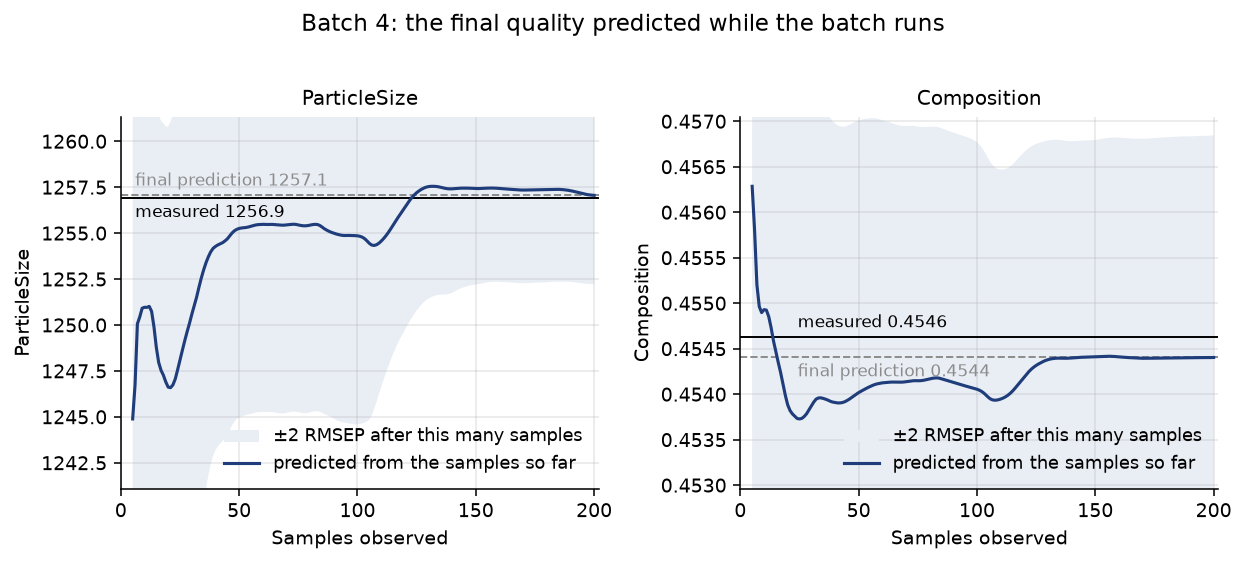
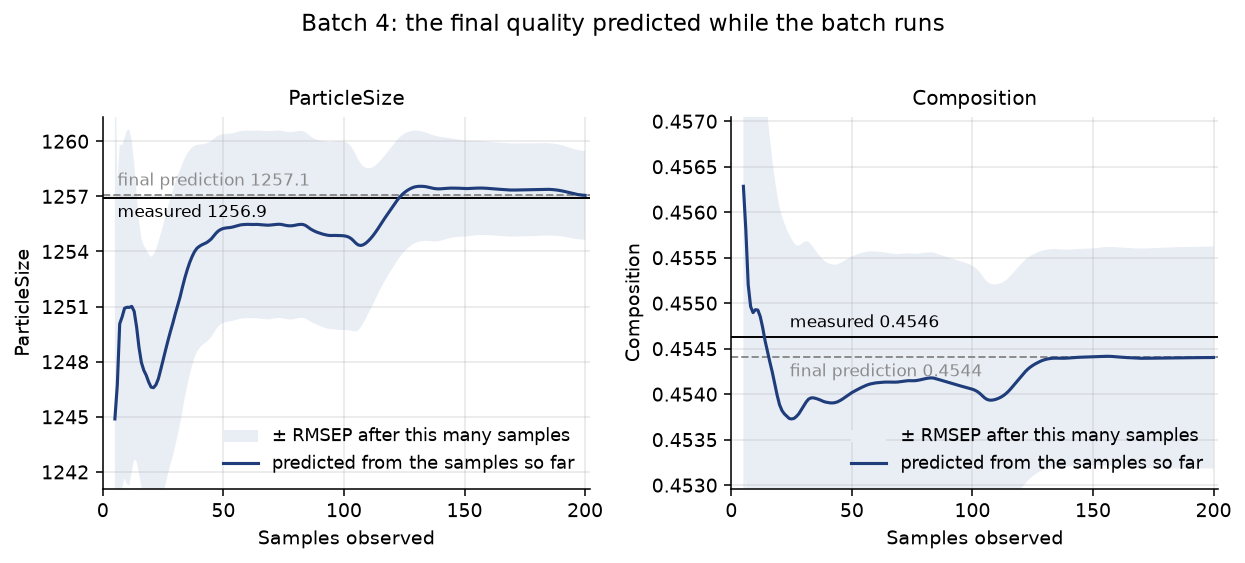
SBR: mark batch 4 on the score plot; one-RMSEP band and integer ticks on its prediction figure
Batch 4, the batch nearest the average quality, is drawn in purple and
labelled on the score plot so the mid-batch prediction figure can refer
to it. That figure's band is now one RMSEP wide, and the particle-size
axis uses integer ticks.

Claude-Session: https://claude.ai/code/session_01LXthGpHLQFfGubBiKFtGAE

diff --git a/batch/batch-case-sbr-figures.py b/batch/batch-case-sbr-figures.py
@@ -58,6 +58,7 @@ from batch_case_common import (
 )
 from matplotlib.legend_handler import HandlerTuple
 from matplotlib.lines import Line2D
+from matplotlib.ticker import MaxNLocator
 
 from process_improve.batch import BatchMonitor, BatchPLS, load_sbr
 from process_improve.univariate import median_absolute_deviation
@@ -131,7 +132,10 @@ def main(out_dir: pathlib.Path, data_url: str | None) -> None:
     save(fig, out_dir, "batch-case-sbr-raw-trajectories")
 
     model = BatchPLS(n_components=2).fit(trajectories, quality)
-    save(score_plot(model, highlight=HIGHLIGHT, labels=list(HIGHLIGHT), title="Batch PLS: scores of the 53 batches"), out_dir, "batch-case-sbr-scores")
+    # Batch 4, the batch nearest the average quality, is marked for the mid-batch prediction figure further on.
+    fig = score_plot(model, highlight={**HIGHLIGHT, AVERAGE_BATCH: PURPLE}, labels=[*HIGHLIGHT, AVERAGE_BATCH],
+                     title="Batch PLS: scores of the 53 batches")
+    save(fig, out_dir, "batch-case-sbr-scores")
     save(influence_plot(model, highlight=HIGHLIGHT, labels=[*HIGHLIGHT, *SPE_OUTLIERS], title="Batch PLS: Hotelling's $T^2$ against SPE"), out_dir, "batch-case-sbr-influence")
 
     r2_grid = model.r2_per_variable_.iloc[:, -1].unstack(level="sequence").reindex(index=model.tag_names_)
@@ -249,9 +253,9 @@ def main(out_dir: pathlib.Path, data_url: str | None) -> None:
     fig, axes = plt.subplots(1, 2, figsize=(9.0, 3.9))
     for ax, attribute in zip(axes, ["ParticleSize", second], strict=True):
         y_hat = trace.y_hat[attribute].loc[FIRST_SAMPLE_SHOWN:]
-        half_width = 2 * rmsep[attribute].loc[FIRST_SAMPLE_SHOWN:]
+        half_width = rmsep[attribute].loc[FIRST_SAMPLE_SHOWN:]
         ax.fill_between(y_hat.index, (y_hat - half_width).to_numpy(), (y_hat + half_width).to_numpy(), color=BAND,
-                        lw=0, zorder=1, label="$\\pm 2$ RMSEP after this many samples")
+                        lw=0, zorder=1, label="$\\pm$ RMSEP after this many samples")
         ax.plot(y_hat.index, y_hat.to_numpy(), color=DARK_BLUE, lw=1.6, zorder=3, label="predicted from the samples so far")
         ax.axhline(final[attribute], color=GREY, lw=1, ls="--", zorder=2)
         ax.axhline(measured[attribute], color="black", lw=1, zorder=2)
@@ -268,6 +272,8 @@ def main(out_dir: pathlib.Path, data_url: str | None) -> None:
         ax.set_ylim(low - pad, high + pad)
         ax.set_xlim(0, model.n_timesteps_ + 2)
         ax.set_xlabel("Samples observed")
+        if attribute == "ParticleSize":
+            ax.yaxis.set_major_locator(MaxNLocator(integer=True))
         ax.set_ylabel(attribute)
         ax.set_title(attribute)
         ax.legend(loc="lower right")
